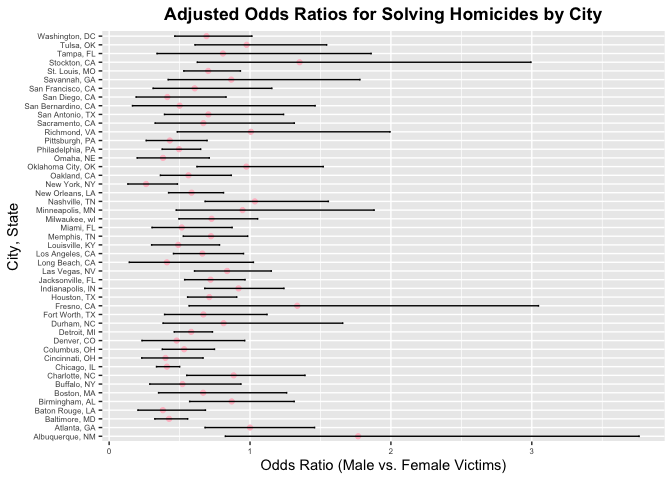
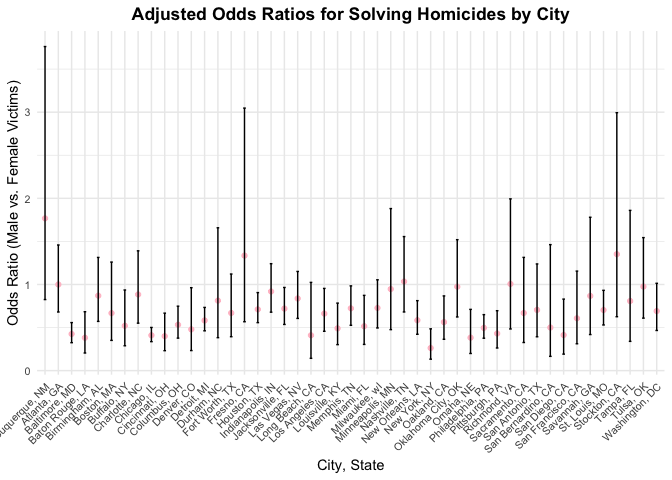
fix

diff --git a/p8105_hw6_dw3093.md b/p8105_hw6_dw3093.md
@@ -139,14 +139,15 @@ city_results %>%
   ggplot(aes(x = city_state, y = OR)) +
   geom_point(color = "pink") +
   geom_errorbar(aes(ymin = CI_lower, ymax = CI_upper), width = .2) + 
-  coord_flip() +
   labs(
     title = "Adjusted Odds Ratios for Solving Homicides by City",
     x = "City, State",
     y = "Odds Ratio (Male vs. Female Victims)"
   ) +
+  theme_minimal() +
   theme(
-    axis.text = element_text(size = 6),
+    axis.text.x = element_text(angle = 45, hjust = 1),
+    axis.text = element_text(size = 8),
     plot.title = element_text(hjust = 0.5, face = "bold")
   )
 ```
